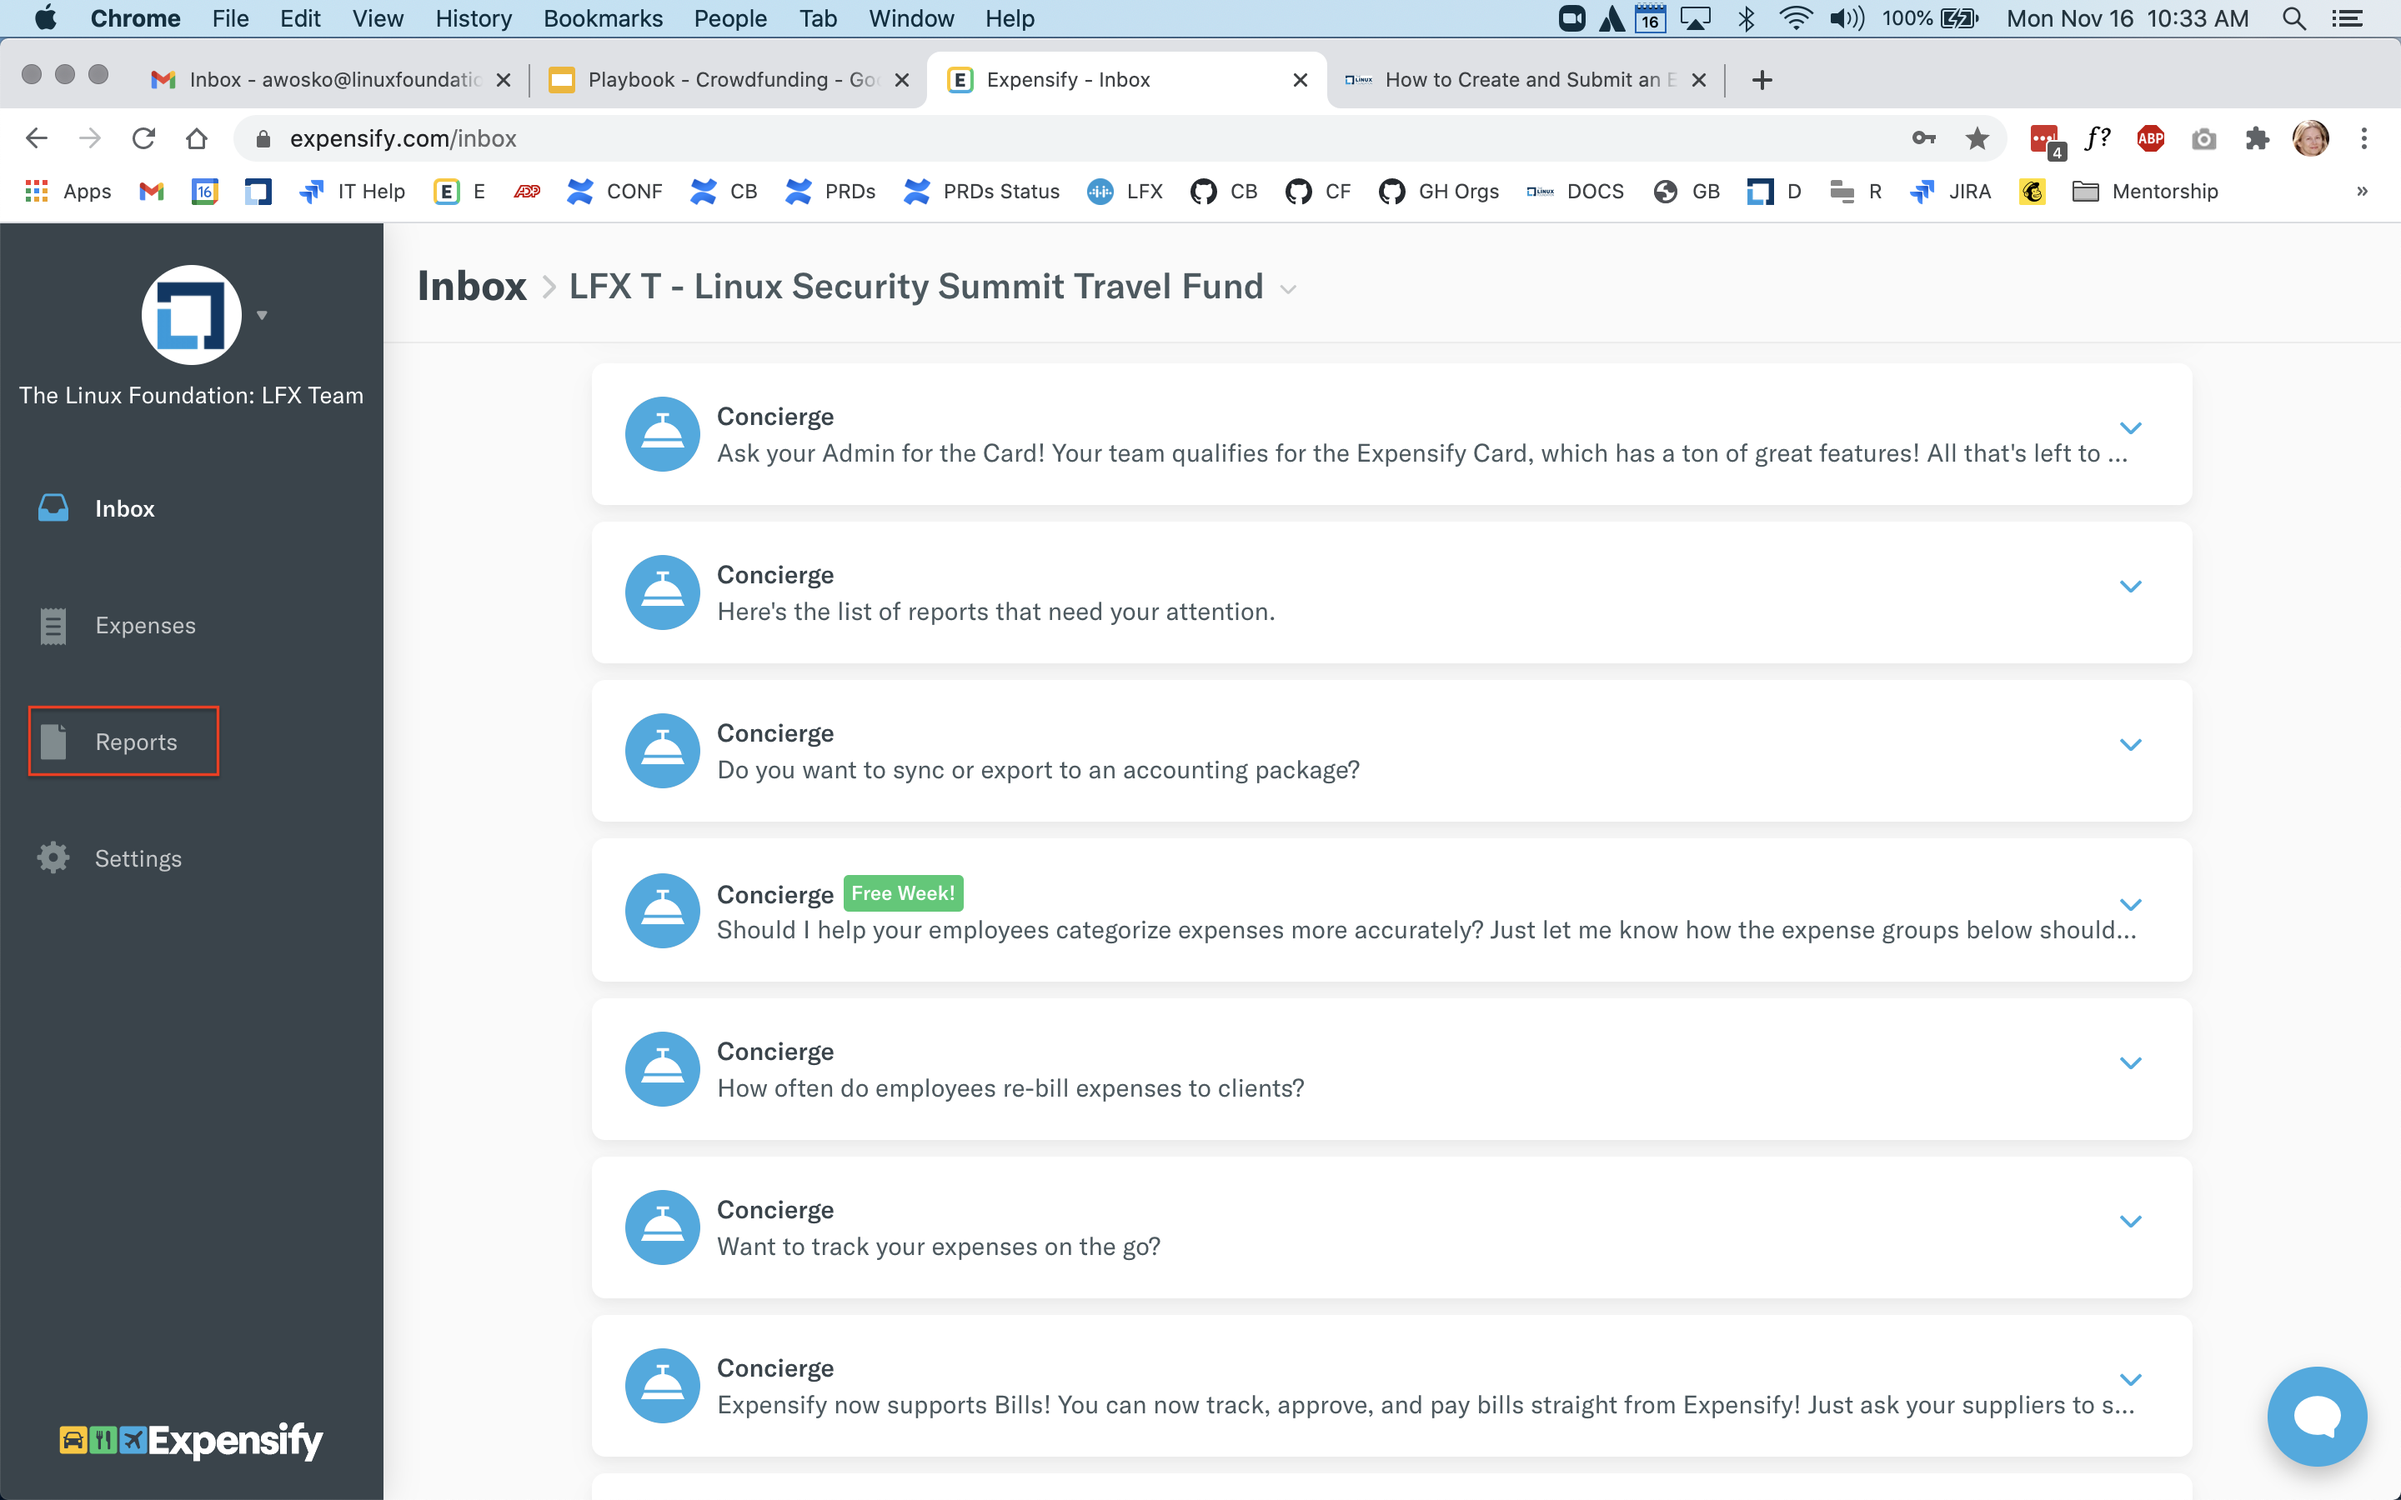
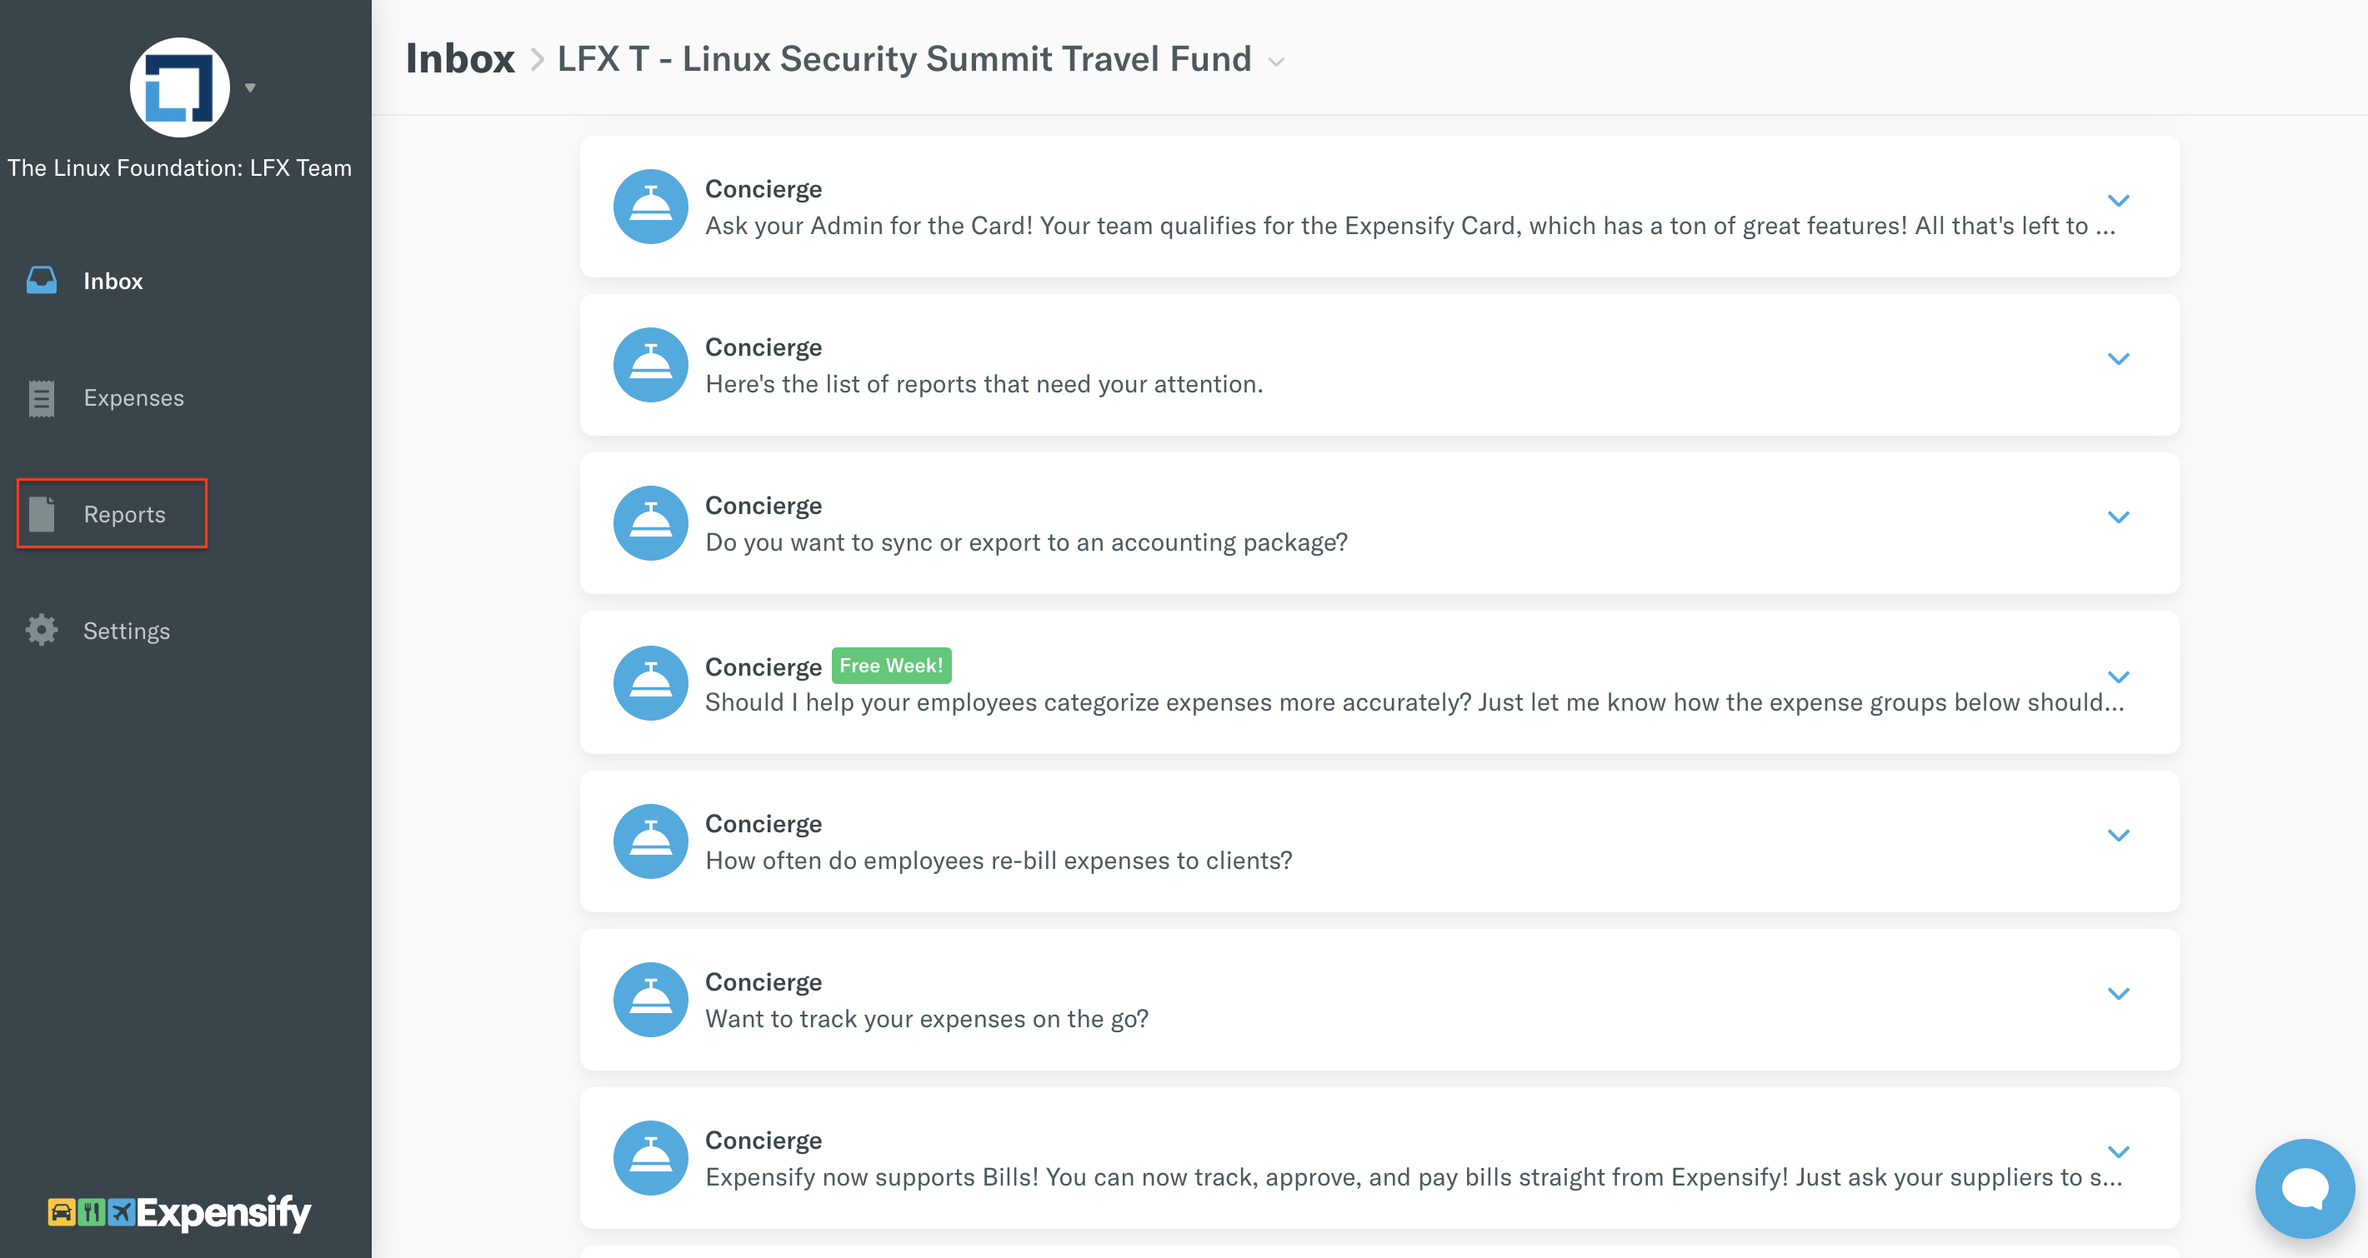
GitBook: [master] one page and 3 assets modified

diff --git a/crowdfunding/how-to-create-and-submit-an-expensify-report.md b/crowdfunding/how-to-create-and-submit-an-expensify-report.md
@@ -10,7 +10,7 @@ Consolidate all of the expenses eligible for reimbursement to apply them to the 
 
 2. Under your account, select **Reports** tab.
 
-![](../.gitbook/assets/reports%20%281%29.png)
+![](../.gitbook/assets/reports.png)
 
 3. On **Reports** page, select **New Report** located in the top-right corner of your screen.
 
